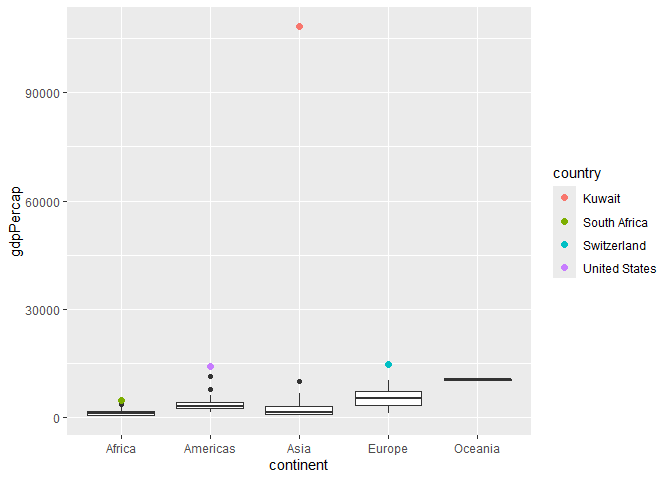
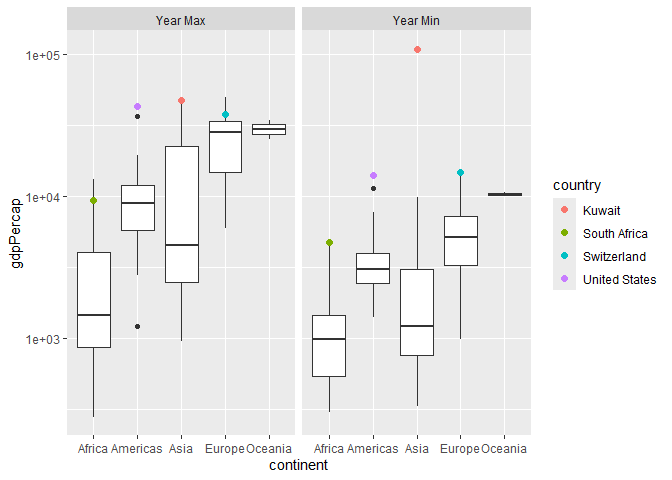
challenge 4 resubmission

diff --git a/challenges/c04-gapminder-assignment.md b/challenges/c04-gapminder-assignment.md
@@ -1,7 +1,7 @@
 Gapminder
 ================
-(Your name here)
-2020-
+Swasti Jain
+2025-4-26
 
 - [Grading Rubric](#grading-rubric)
   - [Individual](#individual)
@@ -138,12 +138,12 @@ year_max <- NA_real_
 year_min <- NA_real_
 
 
-year_min <- gapminder %>% 
-  pull(year) %>% 
+year_min <- gapminder %>%
+  pull(year) %>%
   min()
 
-year_max<- gapminder %>% 
-  pull(year) %>% 
+year_max <- gapminder %>%
+  pull(year) %>%
   max()
 ```
 
@@ -193,9 +193,10 @@ can.
 
 ``` r
 ## TASK: Create a visual of gdpPercap vs continent
-gapminder %>% 
-  filter(year == year_min) %>% 
-  ggplot(aes(continent, gdpPercap))+
+gapminder %>%
+  filter(year == year_min) %>%
+  ggplot(aes(continent, gdpPercap)) +
+  scale_y_log10() +
   geom_boxplot()
 ```
 
@@ -207,21 +208,25 @@ gapminder %>%
 - Oceania likely has very little data which is why the box plot has very
   little variation.
 - Europe seems to have the most variation since it has the largest
-  difference in its lower and upper quartile
+  difference in its lower and upper quartile (when plotted on a linear
+  scale)
 
 **Difficulties & Approaches**:
 
-- So much so that it makes all the relative median gdp for the other
-  continents seem more similar than they actually are
+- On my first pass of representing this data I used a linear y scale.
+  This contributed to a misunderstanding that the median gdp for each
+  continent was relatively similar.
+- Using a log scale compresses the distribution making large and small
+  values easier to compare and analyze.
 
 ### **q3** You should have found *at least* three outliers in q2 (but possibly many more!). Identify those outliers (figure out which countries they are).
 
 ``` r
 ## TASK: Identify the outliers from q2
 
-gapminder %>% 
-  filter(year == year_min, continent == "Asia", gdpPercap >= 90000) %>% 
-  ggplot(aes(continent, gdpPercap, color = country))+
+gapminder %>%
+  filter(year == year_min, continent == "Asia", gdpPercap >= 90000) %>%
+  ggplot(aes(continent, gdpPercap, color = country)) +
   geom_point()
 ```
 
@@ -231,27 +236,27 @@ gapminder %>%
 # Kuwait has the highest outlier??
 
 
-gapminder %>% 
-  filter(year == year_min, continent == "Americas", gdpPercap >= 10000) %>% 
-  ggplot(aes(continent, gdpPercap, color = country))+
+gapminder %>%
+  filter(year == year_min, continent == "Americas", gdpPercap >= 10000) %>%
+  ggplot(aes(continent, gdpPercap, color = country)) +
   geom_point()
 ```
 
 ![](c04-gapminder-assignment_files/figure-gfm/q3-task-2.png)<!-- -->
 
 ``` r
-gapminder %>% 
-  filter(year == year_min, continent == "Europe", gdpPercap >= 14000) %>% 
-  ggplot(aes(continent, gdpPercap, color = country))+
+gapminder %>%
+  filter(year == year_min, continent == "Europe", gdpPercap >= 14000) %>%
+  ggplot(aes(continent, gdpPercap, color = country)) +
   geom_point()
 ```
 
 ![](c04-gapminder-assignment_files/figure-gfm/q3-task-3.png)<!-- -->
 
 ``` r
-gapminder %>% 
-  filter(year == year_min, continent == "Africa", gdpPercap >= 4000) %>% 
-  ggplot(aes(continent, gdpPercap, color = country))+
+gapminder %>%
+  filter(year == year_min, continent == "Africa", gdpPercap >= 4000) %>%
+  ggplot(aes(continent, gdpPercap, color = country)) +
   geom_point()
 ```
 
@@ -275,8 +280,8 @@ label:
 ## NOTE: No need to edit, use ideas from this in q4 below
 gapminder %>%
   filter(year == max(year)) %>%
-
   ggplot(aes(continent, lifeExp)) +
+  scale_y_log10() +
   geom_boxplot() +
   geom_point(
     data = . %>% filter(country %in% c("United Kingdom", "Japan", "Zambia")),
@@ -295,15 +300,17 @@ variables; think about using different aesthetics or facets.
 ``` r
 ## TASK: Create a visual of gdpPercap vs continent
 gapminder %>%
-  filter(year == year_min) %>%
-
+  filter(year %in% c(year_max,year_min)) %>%
+  mutate(year_label = ifelse(year == year_min, "Year Min", "Year Max")) %>%
   ggplot(aes(continent, gdpPercap)) +
+  scale_y_log10() +
   geom_boxplot() +
   geom_point(
     data = . %>% filter(country %in% c("United States", "Kuwait", "Switzerland", "South Africa")),
     mapping = aes(color = country),
     size = 2
-  )
+  )+
+  facet_wrap(~year_label)
 ```
 
 ![](c04-gapminder-assignment_files/figure-gfm/q4-task-1.png)<!-- -->
@@ -333,7 +340,7 @@ the relationship between variables, or something else entirely.
 ## TASK: Your first graph
 gapminder %>%
   ggplot(aes(x = continent, y = lifeExp)) +
-  geom_boxplot() 
+  geom_boxplot()
 ```
 
 ![](c04-gapminder-assignment_files/figure-gfm/q5-task1-1.png)<!-- -->
@@ -346,8 +353,8 @@ gapminder %>%
 ``` r
 ## TASK: Your second graph
 
-gapminder %>% 
-  ggplot(aes(year, lifeExp, color = continent))+
+gapminder %>%
+  ggplot(aes(year, lifeExp, color = continent)) +
   geom_point(position = "jitter")
 ```
 
@@ -360,20 +367,21 @@ gapminder %>%
 
 ``` r
 ## TASK: Your third graph
-
 gapminder %>%
   group_by(year, continent) %>%
   summarise(
     mean_lifeExp = mean(lifeExp),
     sd_lifeExp = sd(lifeExp),
-    n = n(),
-    se_lifeExp = sd_lifeExp / sqrt(n), 
     .groups = "drop"
   ) %>%
   ggplot(aes(x = year, y = mean_lifeExp, color = continent, fill = continent)) +
-  geom_ribbon(aes(ymin = mean_lifeExp - 1.96 * se_lifeExp, ymax = mean_lifeExp + 1.96 * se_lifeExp), 
-              alpha = 0.2, linetype = "blank") +  
-  geom_line(size = 1) 
+  geom_ribbon(aes(
+    ymin = mean_lifeExp - sd_lifeExp,
+    ymax = mean_lifeExp + sd_lifeExp
+  ),
+    alpha = 0.2, linetype = "blank"
+  ) +
+  geom_line(size = 1)
 ```
 
     ## Warning: Using `size` aesthetic for lines was deprecated in ggplot2 3.4.0.
@@ -385,8 +393,7 @@ gapminder %>%
 ![](c04-gapminder-assignment_files/figure-gfm/q5-task3-1.png)<!-- -->
 
 - This graph plots the life expectancy over the years as well as a
-  ribbon of the 95% confidence interval to better represent the
-  variation as well
+  ribbon of the standard deveiation
 - While all the countries seem to follow a similar slope of improvement
   for life expectancy, Africa seems to stagnate in the mid 1980s.
 - From a quick google search, many articles point to the spread of
